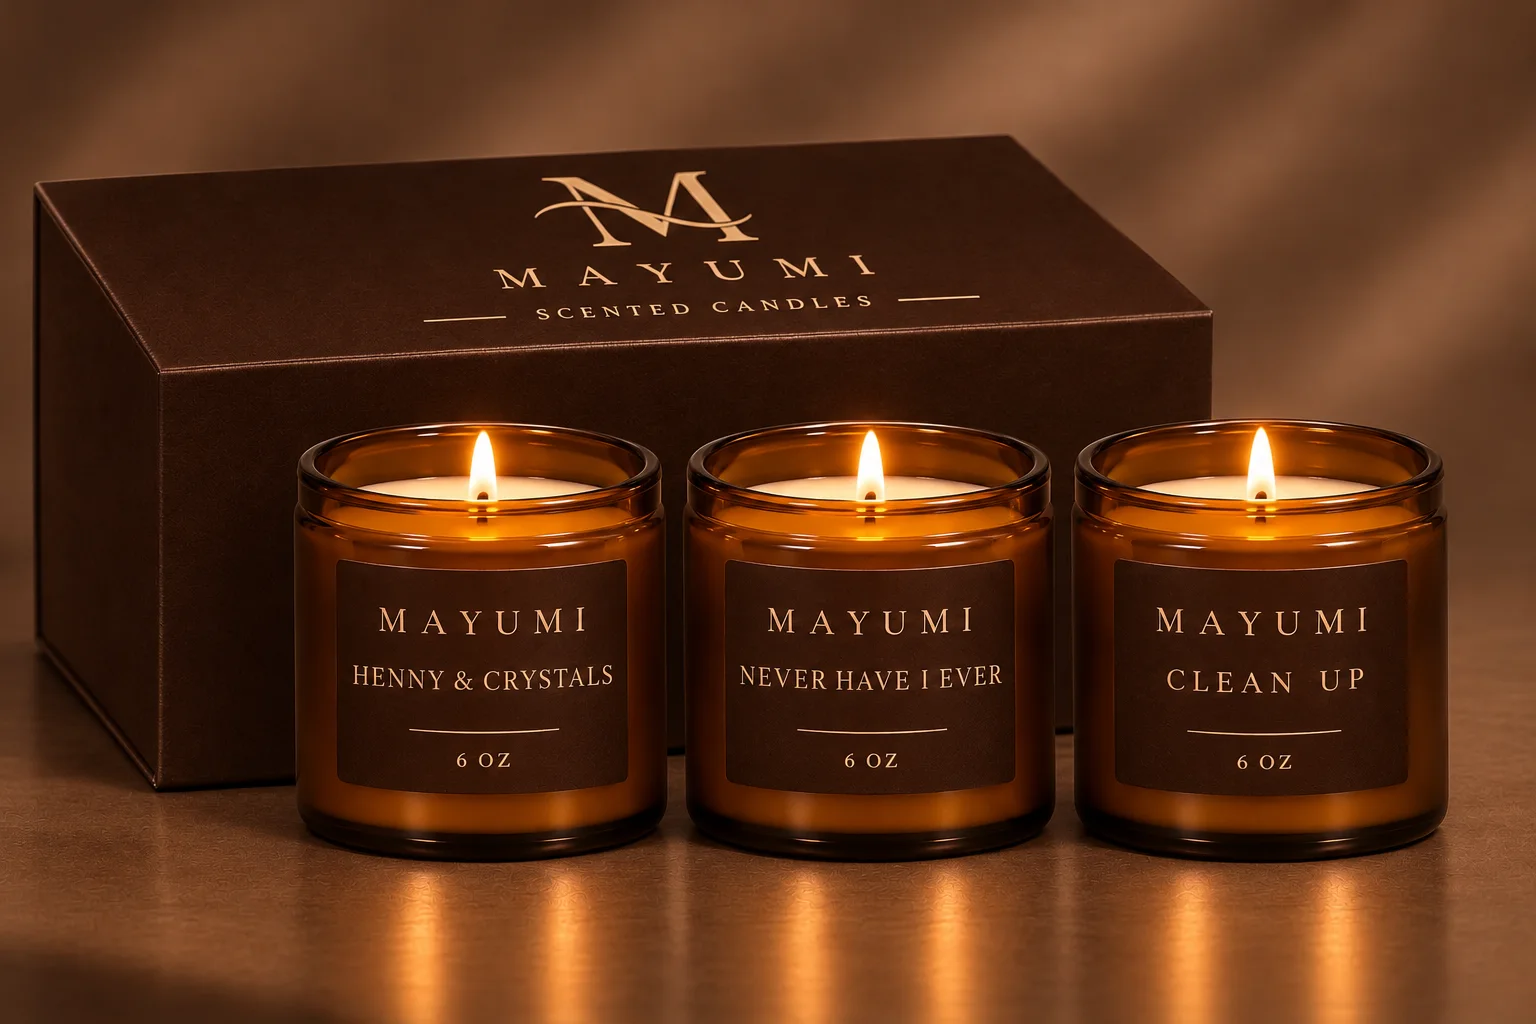
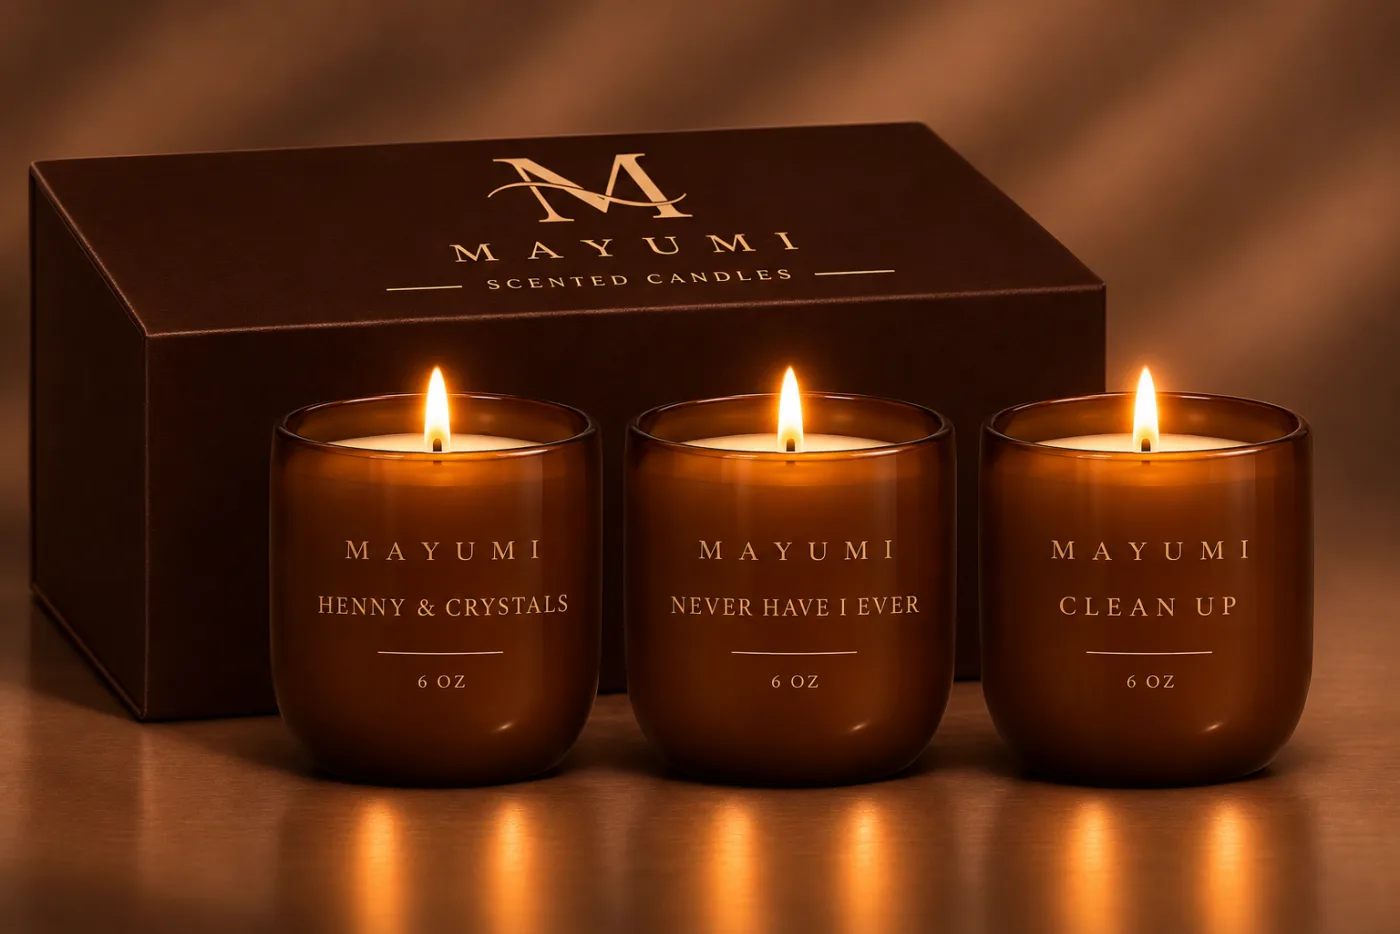
New Never Have I Ever photo (14oz), new trio gift set photos

diff --git a/candles.js b/candles.js
@@ -4,7 +4,7 @@
   const money = n => '$' + Math.round(n);
 
   const SCENTS = [
-    { id: 'nhie', name: 'Never Have I Ever', col: 'cocoa', st: 'pre', size: '16oz · 2 wicks', price: 45,
+    { id: 'nhie', name: 'Never Have I Ever', col: 'cocoa', st: 'pre', size: '14oz · 2 wicks', price: 45,
       song: 'Named for “Never Have I Ever”, the new single.', notes: [['Notes', 'Black cherry, smoked clove, leather, dark amber']] },
     { id: 'henny-crystals', name: 'Henny & Crystals', col: 'cocoa', size: '8oz · 1 wick', price: 35,
       song: 'White tea and clean citrus, followed by sweet florals of jasmine and violet, resting on a base of cedar, sandalwood, tonka and light amber.', notes: [['Top', 'White tea, clean citrus'], ['Heart', 'Jasmine, violet'], ['Base', 'Cedar, sandalwood, tonka, light amber']] },
@@ -20,7 +20,7 @@
       song: 'Soft, fresh, and sincere, like checking in just to hear how someone’s day went. Airy florals, a touch of brightness, and a grounding finish: a quiet kind of care that stays with you.', notes: [['Notes', 'Gardenia, frankincense, citrus vervain']] },
   ];
   const SETS = [
-    { id: 'set-sand', st: 'pre', name: 'The Sand Set', col: 'sand', price: 50, img: 'img/set-sand.webp', inc: 'Forever Lasting · Call Me · Hot Yoga', size: '3 × 6oz in the sand gift box' },
+    { id: 'set-sand', st: 'pre', name: 'The Sand Set', col: 'sand', price: 50, img: 'img/set-sand.webp', inc: 'Forever Lasting · Call Me · Good Girl', size: '3 × 6oz in the sand gift box' },
     { id: 'set-cocoa', st: 'pre', name: 'The Cocoa Set', col: 'cocoa', price: 50, img: 'img/set-cocoa.webp', inc: 'Henny & Crystals · Never Have I Ever · Clean Up', size: '3 × 6oz in the cocoa gift box' },
   ];
   const N = { nhie: 1, 'good-girl': 1 }; const shots = p => (N[p.id] === 1 ? [1] : [1, 2]).map(k => `img/${p.id}-${k}.webp`);

diff --git a/index.html b/index.html
@@ -9,7 +9,7 @@
 <link rel="preconnect" href="https://fonts.googleapis.com"><link rel="preconnect" href="https://fonts.gstatic.com" crossorigin>
 <link href="https://fonts.googleapis.com/css2?family=Cormorant+Garamond:ital,wght@0,400;0,500;0,600;1,400;1,500&family=Lato:wght@400;700&display=swap" rel="stylesheet">
 <script>try{if(localStorage.getItem("mayumi-lit"))document.documentElement.classList.add("lit-before")}catch(e){}</script>
-<link rel="stylesheet" href="candles.css?v=11">
+<link rel="stylesheet" href="candles.css?v=12">
 </head>
 <body class="locked">
 
@@ -103,6 +103,6 @@
   <div class="b-f"><p>Subtotal <b id="bagSub">$0</b></p><button class="btn solid" id="bagGo" disabled>Checkout</button><small id="bagNote">Checkout opens on the Mayumi Shopify store.</small></div></aside>
 <div id="scrim"></div>
 
-<script src="candles.js?v=10"></script>
+<script src="candles.js?v=11"></script>
 </body>
 </html>

diff --git a/candles.css b/candles.css
@@ -285,3 +285,4 @@ body.product #nav{background:var(--glass);backdrop-filter:blur(14px);color:var(-
 
 .set-img{position:relative;display:block}.set-img .tag{position:absolute;z-index:2;top:12px;left:12px;font:700 10px/1 Lato,sans-serif;letter-spacing:.16em;text-transform:uppercase;padding:7px 10px;border-radius:99px;font-style:normal;background:#f1dcc6;color:#24110a;box-shadow:0 2px 10px rgba(0,0,0,.35)}
 .p-more .kick,.p-more .sc-t small{color:var(--ink)}
+.set img{aspect-ratio:3/2}
